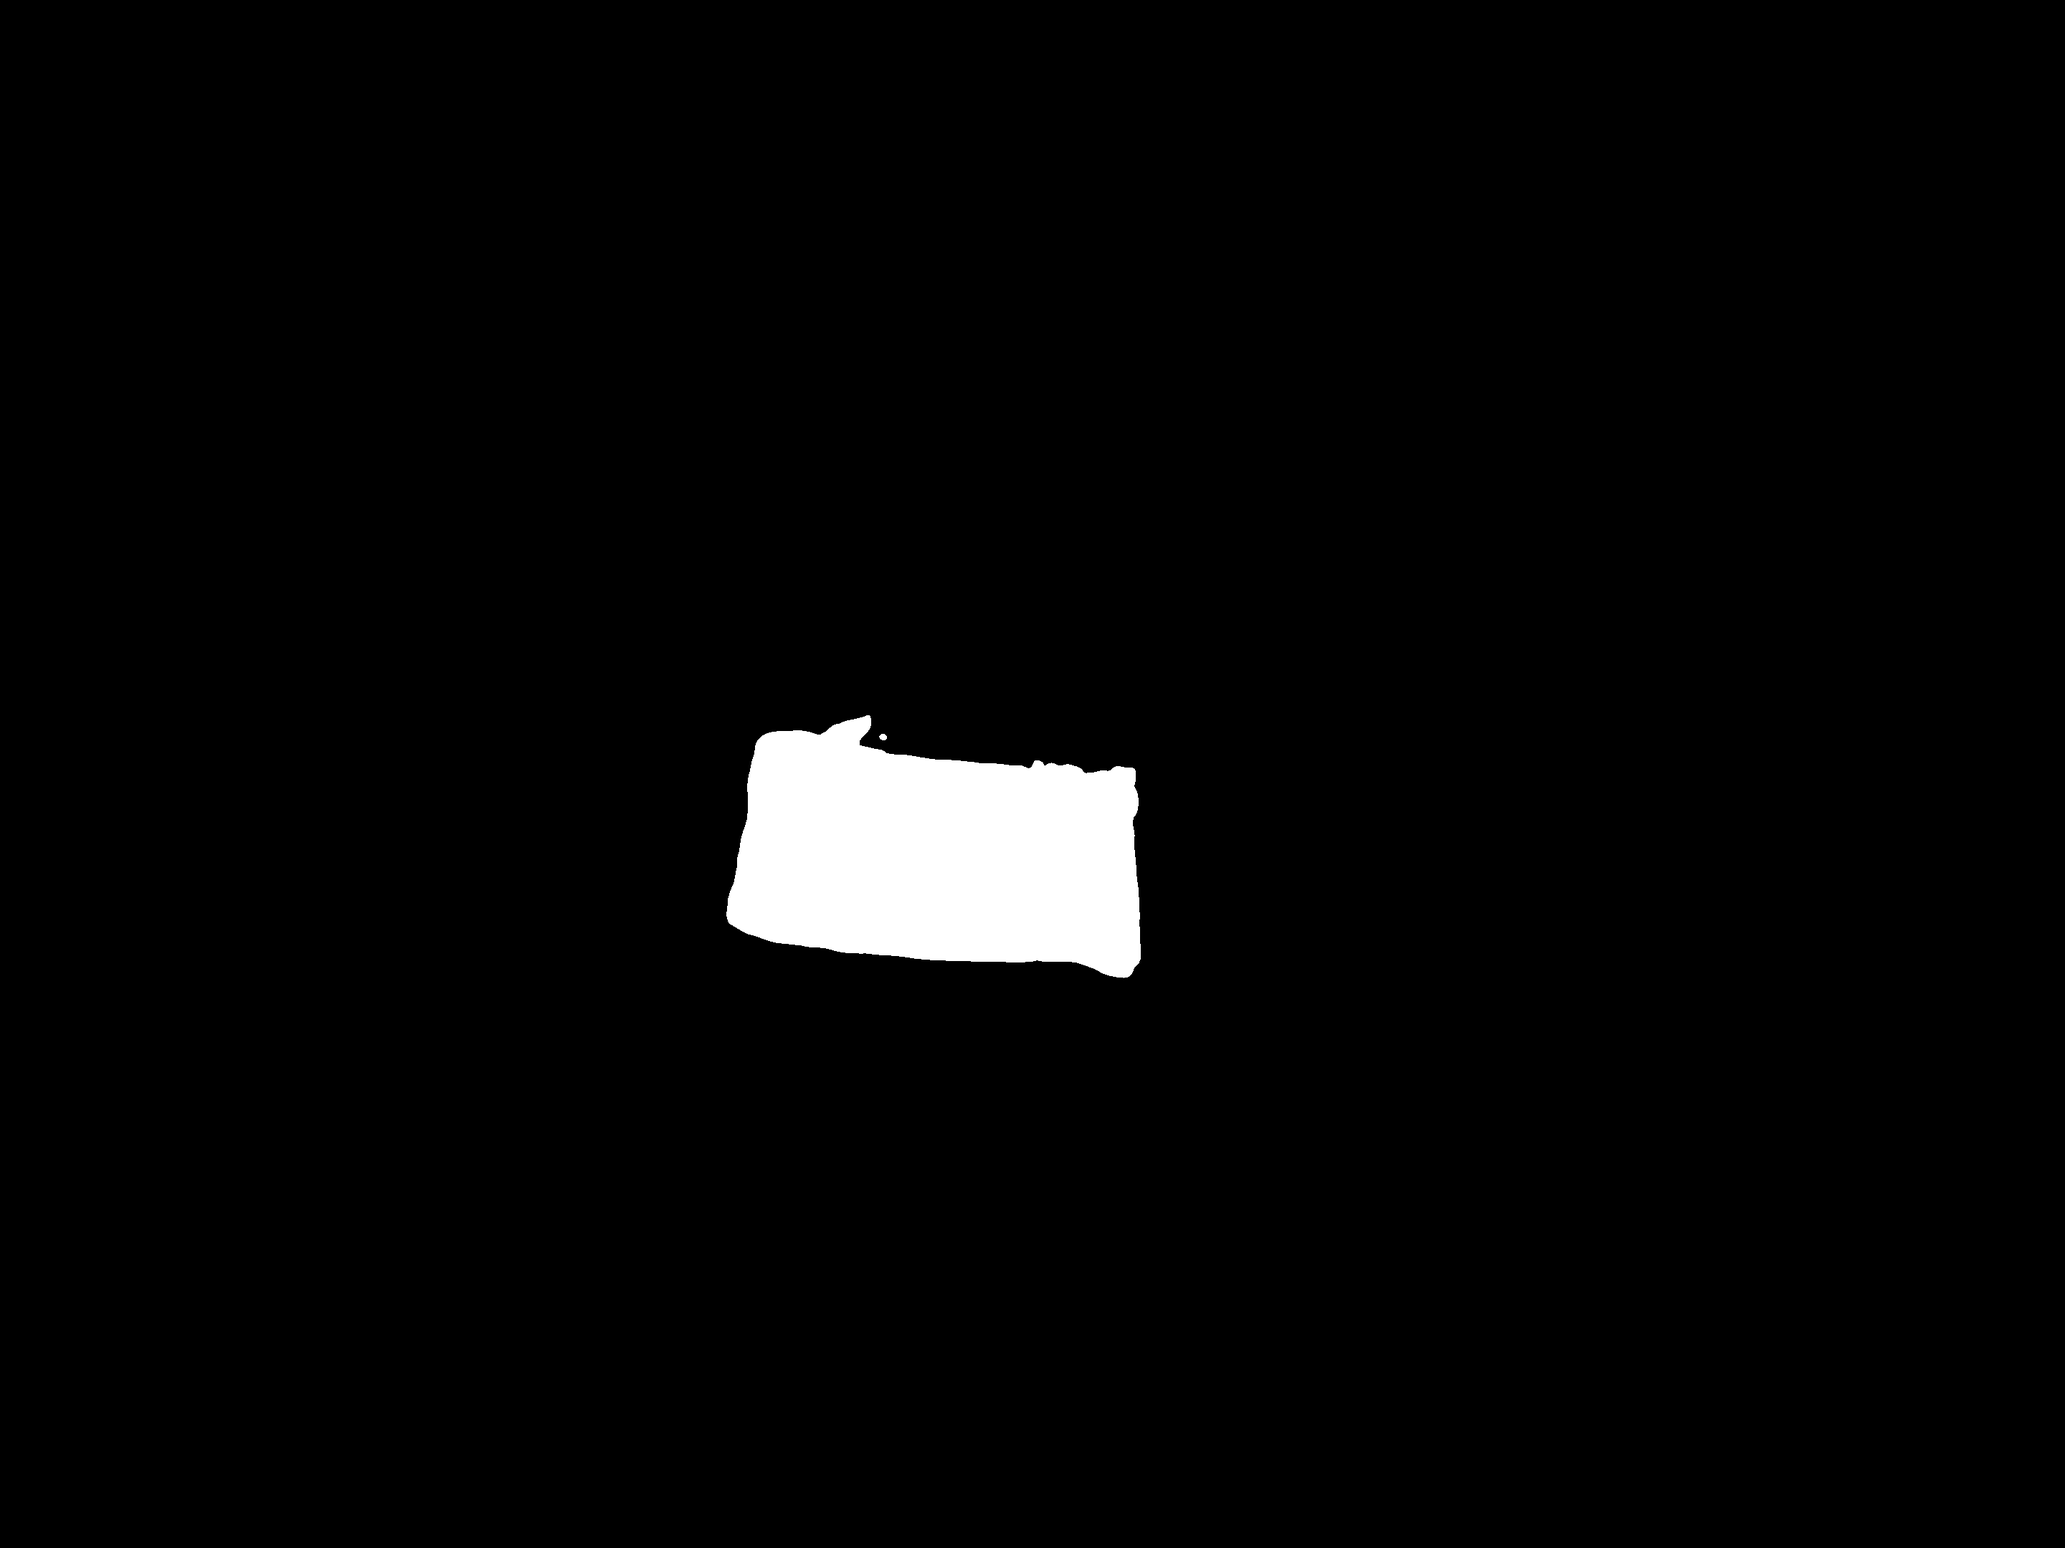
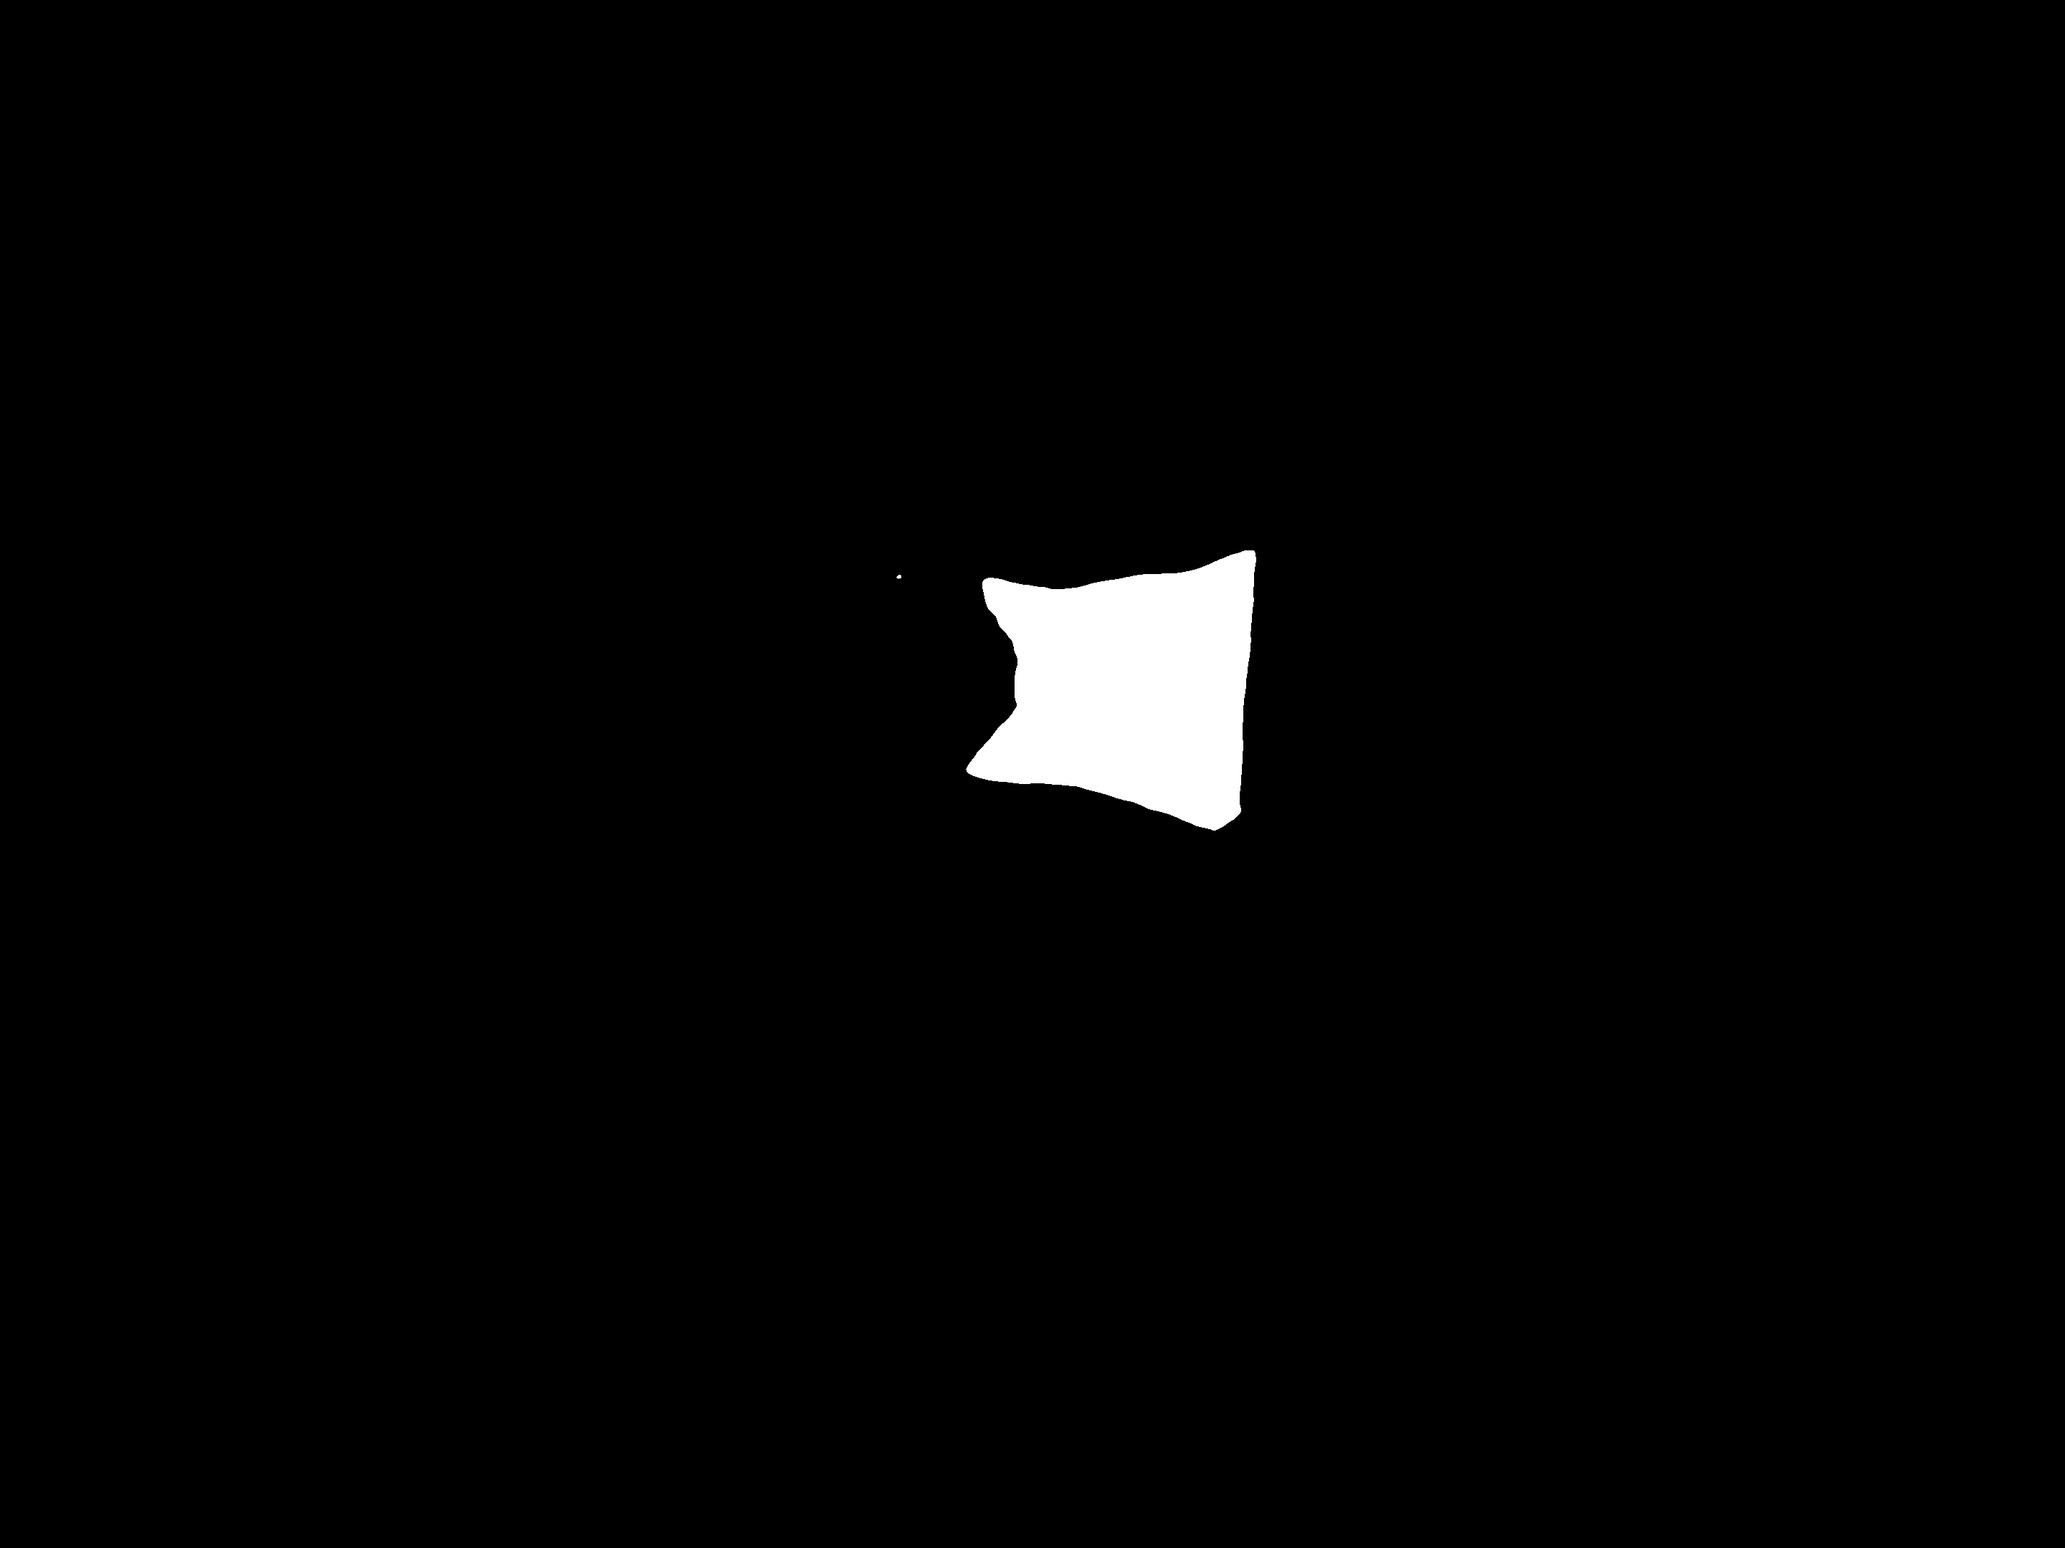
Fixed mask offset (ugly)

Changed region(s): [[0.3438, 0.3412, 0.625, 0.6514]]

diff --git a/EyemanticsUnity/Assets/Scripts/ImageGazeInput.cs b/EyemanticsUnity/Assets/Scripts/ImageGazeInput.cs
@@ -30,7 +30,8 @@ public class ImageGazeInput : MonoBehaviour
     private MLCamera.CaptureConfig _captureConfig;
 
     public GameObject gazeDisplayPrefab;
-    public float gazeInterval = 0.2f;
+    public Vector3 gazePoint;
+    public float gazeInterval = 0.5f;
     public float imageCaptureInterval = 1f;
     private List<Vector3> gazePoints = new List<Vector3>(); // List to store gaze points
 
@@ -83,18 +84,21 @@ public class ImageGazeInput : MonoBehaviour
         cameraCaptureTime += Time.deltaTime;
         time += Time.deltaTime;
 
-        // Continuously record gaze points
-        EyeTracking();
 
-        // Every 0.2 seconds, calculate median and update sphere
+
         if (time >= gazeInterval)
         {
             time = 0;
-            UpdateSpherePositionUsingMedian();
-            gazePoints.Clear(); // Clear the list for next interval
-
-            Debug.Log($"Head Position: {Camera.main.gameObject.transform.position}, Rotation: {Camera.main.gameObject.transform.rotation.eulerAngles}");
+            EyeTracking();
+            //UpdateSpherePositionUsingMedian();
+            gazePoints.Clear();
+            //Debug.Log($"Position: {Camera.main.gameObject.transform.position}\t Rotation: {Camera.main.gameObject.transform.rotation.eulerAngles}");
         }
+
+        //if (!(TCPServer.mask == null || TCPServer.mask.Length == 0)) {
+        //    Debug.Log("Mask not empty!");
+        //}
+
     }
     private void OnPermissionDenied(string permission)
     {
@@ -178,29 +182,54 @@ public class ImageGazeInput : MonoBehaviour
         {
             return;
         }
-        MLResult result = _camera.PrepareCapture(_captureConfig, out MLCamera.Metadata metaData);
-        if (result.IsOk)
+        // Start a new thread for the capture process
+        new Thread(() =>
         {
-            //Debug.Log("first result ok!!");
-            // Trigger auto exposure and auto white balance
-            _camera.PreCaptureAEAWB();
-            result = _camera.CaptureImage();
+            Thread.CurrentThread.IsBackground = true;
+
+            MLResult result = _camera.PrepareCapture(_captureConfig, out MLCamera.Metadata metaData);
             if (result.IsOk)
             {
-                Debug.Log("image captured!!");
-                //PopOutInfo.Instance.AddText("image captured!!");
+                _camera.PreCaptureAEAWB();
+                result = _camera.CaptureImage();
+                if (!result.IsOk)
+                {
+                    Debug.LogError("Failed to start image capture!");
+                }
             }
-            else
-            {
-                Debug.LogError("Failed to start image capture!");
-                //PopOutInfo.Instance.AddText("Failed to start image capture!");
-            }
-        }
-        //else
-        //{
-        //    Debug.Log("first result not ok!!");
-        //}
+        }).Start();
     }
+
+    //public void ImageCapture()
+    //{
+    //    if (!permissionGranted)
+    //    {
+    //        return;
+    //    }
+    //    MLResult result = _camera.PrepareCapture(_captureConfig, out MLCamera.Metadata metaData);
+    //    if (result.IsOk)
+    //    {
+    //        //Debug.Log("first result ok!!");
+    //        // Trigger auto exposure and auto white balance
+    //        _camera.PreCaptureAEAWB();
+    //        result = _camera.CaptureImage();
+    //        if (result.IsOk)
+    //        {
+    //            Debug.Log("image captured!!");
+    //            //PopOutInfo.Instance.AddText("image captured!!");
+    //        }
+    //        else
+    //        {
+    //            Debug.LogError("Failed to start image capture!");
+    //            //PopOutInfo.Instance.AddText("Failed to start image capture!");
+    //        }
+    //    }
+    //    //else
+    //    //{
+    //    //    Debug.Log("first result not ok!!");
+    //    //}
+    //}
+
     private void EyeTracking()
     {
         if (!permissionGranted)
@@ -209,16 +238,24 @@ public class ImageGazeInput : MonoBehaviour
         }
 
         MLResult gazeStateResult = MLGazeRecognition.GetState(out MLGazeRecognition.State state);
-        if (gazeStateResult.IsOk)
+        MLResult gazeStaticDataResult = MLGazeRecognition.GetStaticData(out MLGazeRecognition.StaticData data);
+
+        //Debug.Log($"MLGazeRecognitionStaticData {gazeStaticDataResult.Result}\n" +
+        //    $"Vergence {data.Vergence}\n" +
+        //    $"EyeHeightMax {data.EyeHeightMax}\n" +
+        //    $"EyeWidthMax {data.EyeWidthMax}\n" +
+        //    $"MLGazeRecognitionState: {gazeStateResult.Result}\n" +
+        //    state.ToString());
+        if (data.Vergence != null)
         {
-            MLResult gazeStaticDataResult = MLGazeRecognition.GetStaticData(out MLGazeRecognition.StaticData data);
-            if (gazeStaticDataResult.IsOk && data.Vergence != null)
-            {
-                // Extract the position component from the Pose
-                Vector3 gazePosition = data.Vergence.position;
-                gazePoints.Add(gazePosition); // Store the gaze position
-            }
+            //gazePoints.Add(data.Vergence.position);
+            UpdateSphere(data.Vergence.position);
         }
+    }
+    private void UpdateSphere(Vector3 pos)
+    {
+        gazeDisplayPrefab.transform.position = pos;
+        gazePoint = pos;
     }
 
     private void UpdateSpherePositionUsingMedian()
@@ -227,11 +264,7 @@ public class ImageGazeInput : MonoBehaviour
 
         // Calculate median of gaze points
         Vector3 medianGazePoint = CalculateMedianGazePoint(gazePoints);
-
-        // Create a Pose object from the median position with a default rotation
-        Pose medianPose = new Pose(medianGazePoint, Quaternion.identity);
-
-        UpdateSphere(medianPose); // Update the sphere with the median Pose
+        UpdateSphere(medianGazePoint); // Update the sphere with the median gaze point
     }
 
     private Vector3 CalculateMedianGazePoint(List<Vector3> points)
@@ -247,11 +280,6 @@ public class ImageGazeInput : MonoBehaviour
         return new Vector3(medianX, medianY, medianZ);
     }
 
-    private void UpdateSphere(Pose pos)
-    {
-        Vector3 init_vec = new Vector3(0f, 0f, 1f);
-        gazeDisplayPrefab.transform.position = pos.position;
-    }
     void RowImageAvailable(MLCamera.CameraOutput output, MLCamera.ResultExtras extras, MLCamera.Metadata metadataHandle)
     {
         
@@ -264,23 +292,24 @@ public class ImageGazeInput : MonoBehaviour
         //{
         //UpdateJPGTexture(output.Planes[0]);
         //}
-        //MLResult result = MLCVCamera.GetFramePose(extras.VCamTimestamp, out Matrix4x4 cameraTransform);
+        MLResult result = MLCVCamera.GetFramePose(extras.VCamTimestamp, out Matrix4x4 cameraTransform);
         //if (result.IsOk)
         //{
 
 
-        //cameraPos.position = new Vector3(cameraTransform[0, 3], cameraTransform[1, 3], cameraTransform[2, 3]);
-        //cameraPos.rotation = cameraTransform.rotation;
+        cameraPos.position = new Vector3(cameraTransform[0, 3], cameraTransform[1, 3], cameraTransform[2, 3]);
+        cameraPos.rotation = cameraTransform.rotation;
 
-        cameraPos.position = Camera.main.gameObject.transform.position;
-        cameraPos.rotation = Camera.main.gameObject.transform.rotation;
-        //TCPServer.mask = null;
-        Debug.Log($"cam position: {cameraPos.position}\ncam rotation: {cameraPos.rotation}");
+        //cameraPos.position = Camera.main.gameObject.transform.position;
+        //cameraPos.rotation = Camera.main.gameObject.transform.rotation;
+        ////TCPServer.mask = null;
+        Debug.Log($"cam position: {cameraPos.position}\ncam rotation: {cameraPos.rotation.eulerAngles}");
+
         cameraIntrinsics = extras.Intrinsics.Value;
-        Debug.Log($"Camera Resolution: {cameraIntrinsics.Width} * {cameraIntrinsics.Height}");
-        pixelPos = ViewportPointFromWorld(cameraIntrinsics, gazeDisplayPrefab.transform.position, cameraPos.position, cameraPos.rotation);
+        //Debug.Log($"Camera Resolution: {cameraIntrinsics.Width} * {cameraIntrinsics.Height}");
+        pixelPos = ViewportPointFromWorld(cameraIntrinsics, gazePoint, cameraPos.position, cameraPos.rotation, Quaternion.identity);
         //Debug.Log($"image dimention: {captureWidth} * {captureHeight}");
-        Debug.Log($"gaze pos 2D: {pixelPos}");
+        //Debug.Log($"gaze pos 2D: {pixelPos}");
         //}
         //else
         //{
@@ -289,11 +318,11 @@ public class ImageGazeInput : MonoBehaviour
 
         ReceiveAndCombineYUV(output, extras, metadataHandle);
 
-        Debug.Log("Ready to send out img and gaze pos!");
+        //Debug.Log("Ready to send out img and gaze pos!");
         // Send Image to PC
         if (!TCPServer.communicating)
         {
-            Debug.Log("called tcpserver");
+            //Debug.Log("called tcpserver");
             TCPServer.communicating = true;
             ThreadStart tc = new ThreadStart(TCPServer.Communication);
             TCPServer.commThread = new Thread(tc);
@@ -319,7 +348,7 @@ public class ImageGazeInput : MonoBehaviour
         _combinedTexture2D = ExtendedTexureMethod.toTexture2D(_renderTexture);
         bytes = null;
         bytes = _combinedTexture2D.EncodeToJPG();
-        Debug.Log($"captured image size: {bytes.Length}");
+        //Debug.Log($"captured image size: {bytes.Length}");
         //string dataString = bytes.Aggregate(new StringBuilder(), (sb, b) => sb.AppendFormat("{0:x2} ", b), sb => sb.AppendFormat("({0})", bytes.Length).ToString());
         //SaveBytesArrayLocal(dataString);
     }
@@ -450,11 +479,24 @@ public class ImageGazeInput : MonoBehaviour
         File.WriteAllBytes(Application.dataPath + "/Images/" + Time.time + ".jpgs", bytes);
 #endif
     }
-    public Vector2 ViewportPointFromWorld(MLCamera.IntrinsicCalibrationParameters icp, Vector3 worldPoint, Vector3 cameraPos, Quaternion cameraRotation)
+    public Vector2 ViewportPointFromWorld(
+        MLCamera.IntrinsicCalibrationParameters icp,
+        Vector3 worldPoint,
+        Vector3 cameraPos,
+        Quaternion cameraRotation,
+        Quaternion rotationOffset = default)
     {
+        // If no rotation offset is provided, use the identity quaternion (no rotation)
+        if (rotationOffset == default)
+        {
+            rotationOffset = Quaternion.identity;
+        }
 
-        // Step 1: Convert world point to camera space 
+        // Step 1: Convert world point to camera space
         Vector3 pointInCameraSpace = Quaternion.Inverse(cameraRotation) * (worldPoint - cameraPos);
+
+        // Apply the rotation offset to the point in camera space
+        pointInCameraSpace = rotationOffset * pointInCameraSpace;
 
         //Debug.Log($"3D Point in Camera Space: {pointInCameraSpace}");
 
@@ -462,20 +504,13 @@ public class ImageGazeInput : MonoBehaviour
         if (pointInCameraSpace.z <= 0) // Avoid division by zero
             return new Vector2(-1f, -1f); // Indicate an error or out-of-bounds
 
-        // Step 2: Project the camera-space point onto the image plane
+        // Step 3: Project the camera-space point onto the image plane
         Vector2 viewportPoint = new Vector2(
             icp.FocalLength.x * pointInCameraSpace.x / pointInCameraSpace.z + icp.PrincipalPoint.x,
             icp.Height - ((pointInCameraSpace.y / pointInCameraSpace.z) * icp.FocalLength.y + icp.PrincipalPoint.y)
         );
 
         return viewportPoint;
-        
-
-
-        //float x = (pointInCameraSpace.x / pointInCameraSpace.z) * icp.FocalLength.x + icp.PrincipalPoint.x;
-        //float y = icp.Height - ((pointInCameraSpace.y / pointInCameraSpace.z) * icp.FocalLength.y + icp.PrincipalPoint.y);
-        //Vector2 viewportPoint = new Vector2(x, y);
-
-        //return viewportPoint;
     }
+
 }

diff --git a/EyemanticsUnity/Assets/Scripts/InputManager.cs b/EyemanticsUnity/Assets/Scripts/InputManager.cs
@@ -8,6 +8,9 @@ public class InputManager : MonoBehaviour
     private static ImageGazeInput imageGazeInput;
     private MagicLeapInputs mlInputs;
     private MagicLeapInputs.ControllerActions controllerActions;
+
+    private static float cameraCaptureTime = 0f;
+    private static float imageCaptureInterval = 1f;
     private void Awake()
     {
         mlInputs = new MagicLeapInputs();
@@ -19,13 +22,32 @@ public class InputManager : MonoBehaviour
     {
         imageGazeInput = GameObject.Find("/InputManager").GetComponent<ImageGazeInput>();
     }
+
+    private void Update()
+    {
+
+        cameraCaptureTime += Time.deltaTime;
+    }
+
     private void OnDestroy()
     {
         controllerActions.Trigger.performed -= triggerPress;
     }
     public static void triggerPress(InputAction.CallbackContext context)
     {
+
+        if (cameraCaptureTime < imageCaptureInterval)
+        {
+            return;
+        }
+        cameraCaptureTime = 0;
+
         PopOutInfo.Instance.AddText("trigger press!!");
+        //imageGazeInput.cameraPos.position = Camera.main.gameObject.transform.position;
+        //imageGazeInput.cameraPos.rotation = Camera.main.gameObject.transform.rotation;
+        //TCPServer.mask = null;
+        //Debug.Log($"cam position: {cameraPos.position}\ncam rotation: {cameraPos.rotation.eulerAngles}");
+
         imageGazeInput.ImageCapture();
     }
 }

diff --git a/EyemanticsUnity/Assets/Meshing Example/MeshingVisualizer.cs b/EyemanticsUnity/Assets/Meshing Example/MeshingVisualizer.cs
@@ -230,8 +230,9 @@ namespace MagicLeap.Examples
 
                                 //// Initialize Color
                                 //colors[i] = blue;
+                                Quaternion additionalRotation = Quaternion.Euler(2f, 0f, 0f);
 
-                                Vector2 pixelLocation = _imageGazeInput.ViewportPointFromWorld(_imageGazeInput.cameraIntrinsics, vertices[i], cameraPos, cameraRot);
+                                Vector2 pixelLocation = _imageGazeInput.ViewportPointFromWorld(_imageGazeInput.cameraIntrinsics, vertices[i], cameraPos, cameraRot, additionalRotation);
 
                                 if (pixelLocation != errVec)
                                 {

diff --git a/EyemanticsUnity/Assets/Scripts/PopOutInfo.cs b/EyemanticsUnity/Assets/Scripts/PopOutInfo.cs
@@ -21,7 +21,7 @@ public class PopOutInfo : MonoBehaviour
             Destroy(Instance.gameObject);
             Instance = this;
         }
-        this.text.text = "default text";
+        this.text.text = "";
         Application.logMessageReceived += HandleLog;
     }
     public void AddText(string newText)
@@ -30,8 +30,8 @@ public class PopOutInfo : MonoBehaviour
         {
             this.text.text = "";
         } 
-        this.text.text += '\n';
-        this.text.text += newText;
+        //this.text.text += '\n';
+        //this.text.text += newText;
     }
     private void HandleLog(string message, string stackTrace, LogType type)
     {

diff --git a/EyemanticsML/SAM.py b/EyemanticsML/SAM.py
@@ -32,7 +32,7 @@ predictor = SamPredictor(sam)
 
 #IPaddr = input('Input the MagicLeap device IP\n') 
 
-IPaddr = "127.10.000.1" #change this
+IPaddr = "192.168.1.61" #change this
 port = 4350
 
 firstIter = False
